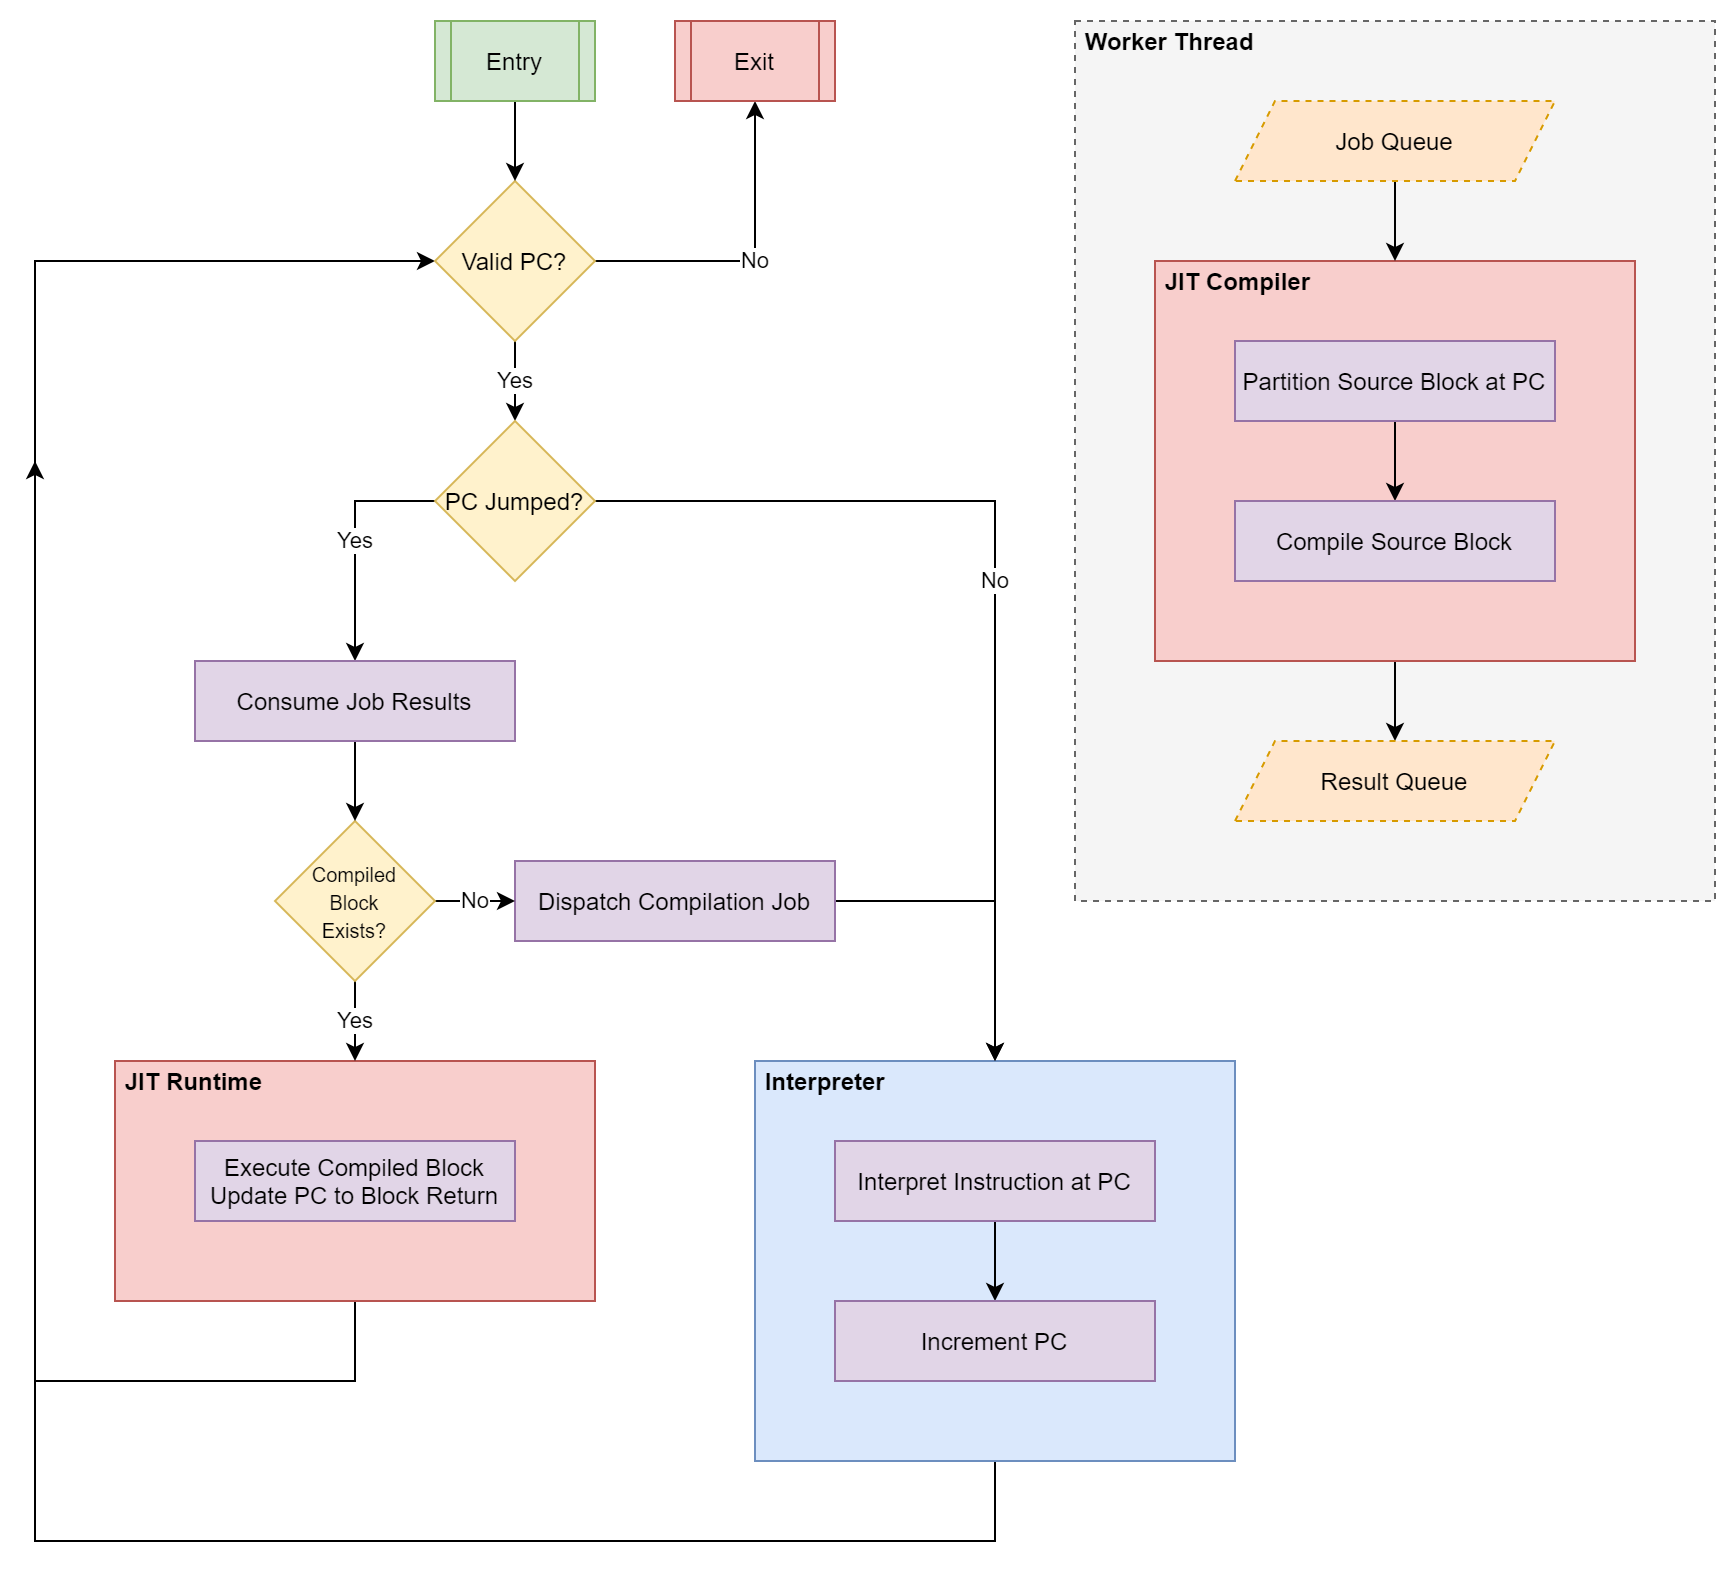
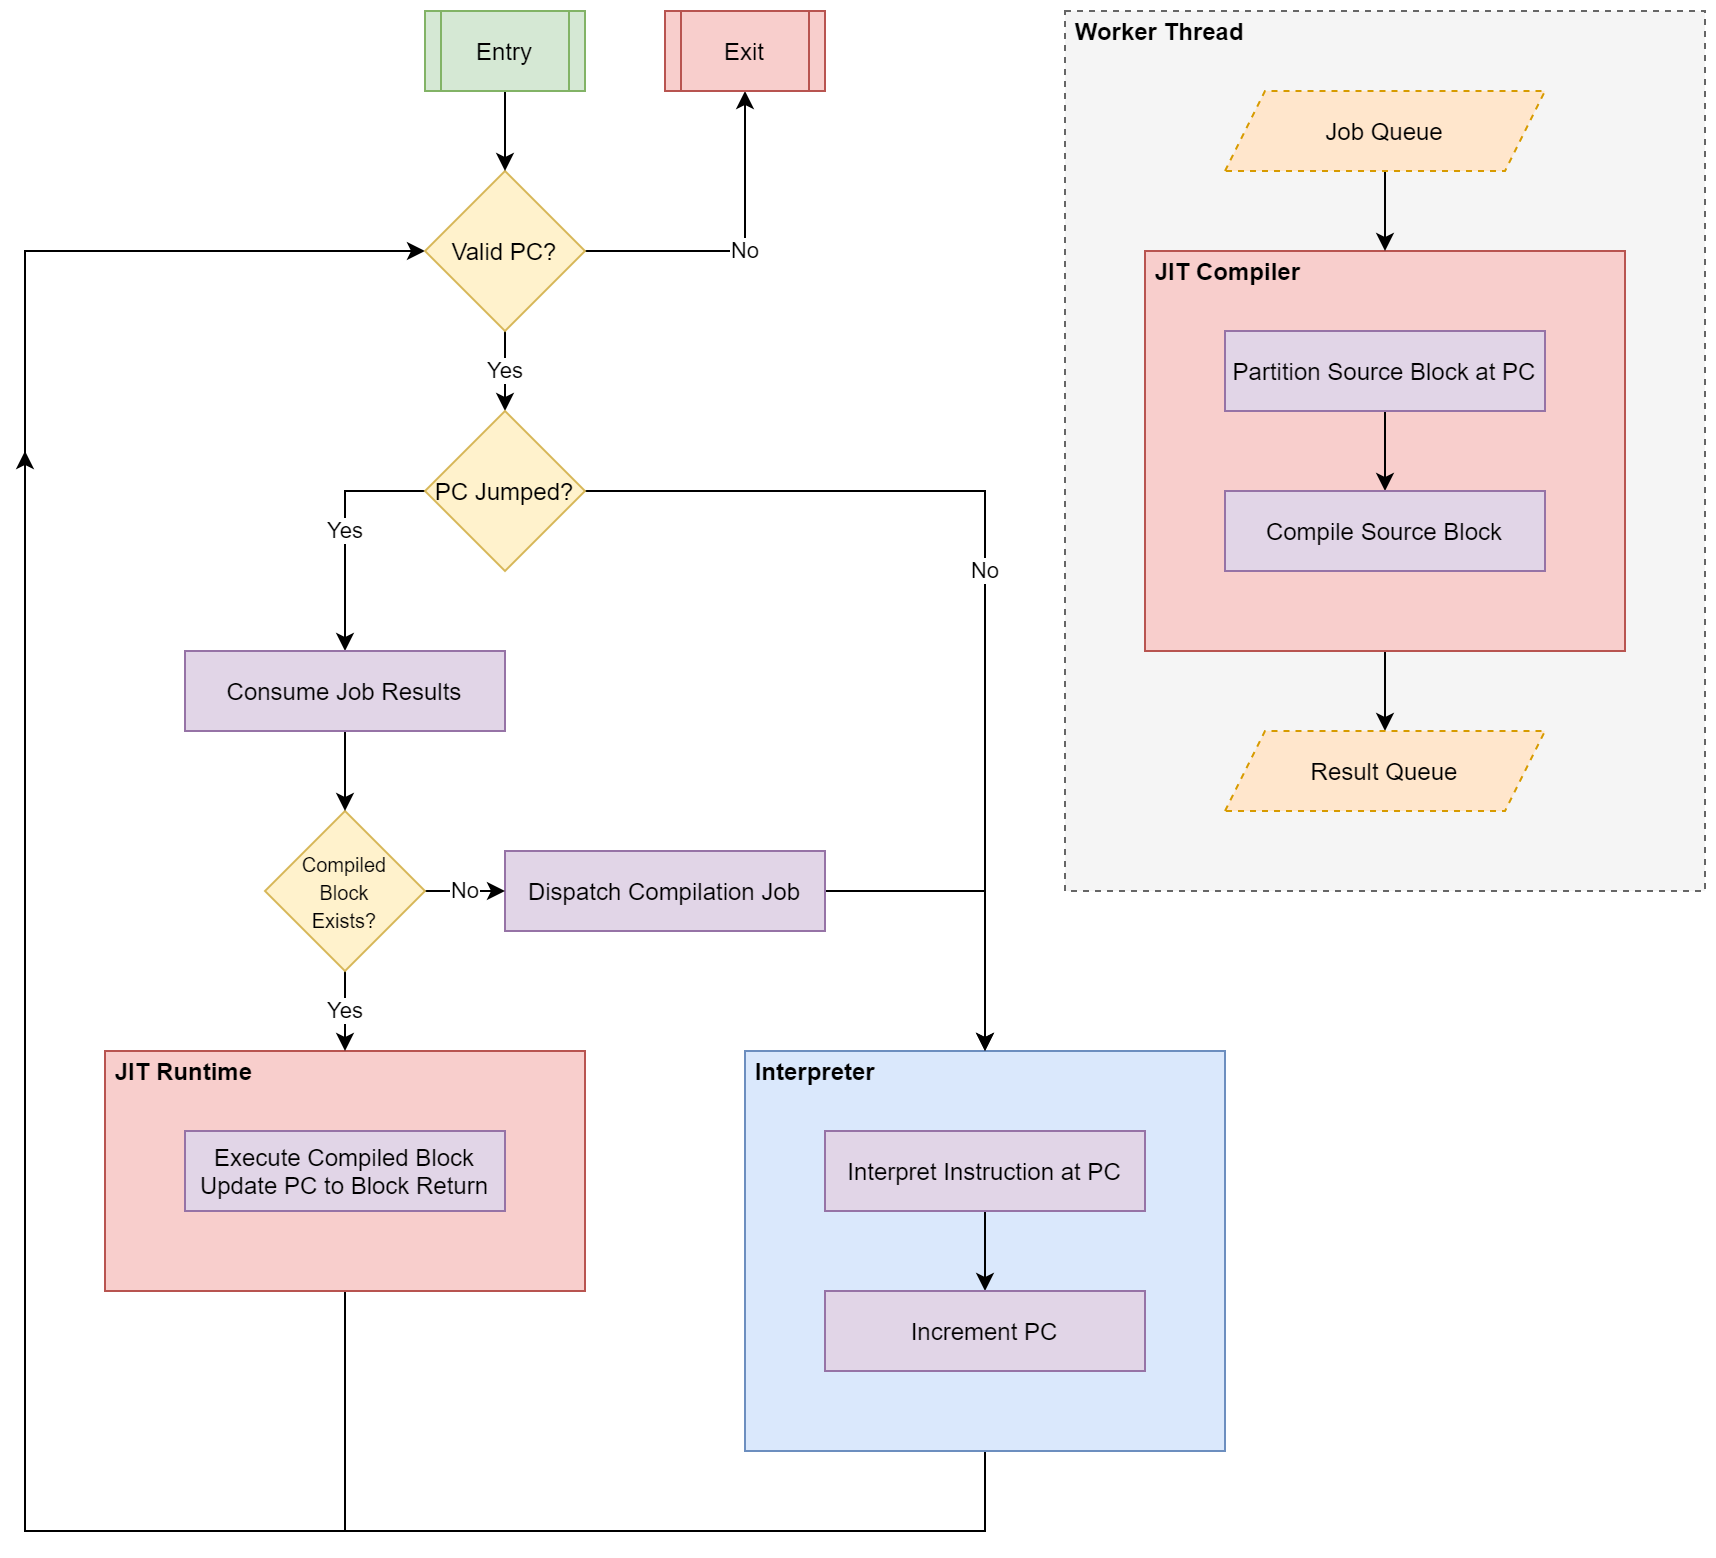
More report work

diff --git a/sections/requirements/specification.tex b/sections/requirements/specification.tex
@@ -1,6 +1,20 @@
 \subsection{Project Specification}
 
-The project will consist of building a JIT based emulator, an interpreter and a JIT-Interpreter hybrid. The interpreter will serve as performance baseline for evaluating the JIT system. The hybrid system intends to combine the best aspects of the JIT and the interpreter systems.
+The project will consist of developing the following emulators:
+
+\begin{itemize}
+    \item \textbf{Interpreter}
+    
+    The interpreter will emulate the source instructions by inspecting each instruction as required and directly executing the equivalent behaviour. Only a single thread will be used and no translation to the host architecture will be performed. This will largely serve as a performance baseline.
+    
+    \item \textbf{JIT Runtime}
+    
+    The JIT runtime will translate each source block from the foreign ISA to the host ISA which will then be executed to emulate the foreign program. Only a single thread will be used and no interpretation will be performed.
+    
+    \item \textbf{Hybrid Runtime}
+    
+    The hybrid runtime will utilise both the interpreter and JIT components in tandem with the aim to maximize the performance. At its discretion, it will utilise additional worker threads to JIT translate foreign source blocks to native host machine code blocks. The main thread will execute the translated blocks and will fall back to the interpreter if they are unavailable.
+\end{itemize}
 
 The following criterion have been defined for the emulators:
 

diff --git a/sections/implementation/hybrid.tex b/sections/implementation/hybrid.tex
@@ -1,0 +1,17 @@
+\subsection{Hybrid Architecture}
+
+\begin{figure}[h]
+    \centering
+    \includegraphics[width=1\linewidth]{diagrams/hybrid.png}
+    \caption{Top level architecture of the hybrid emulator.}
+    \label{figure:hybrid-arch}
+\end{figure}
+
+\subsubsection{Job System}
+
+\begin{figure}[h]
+    \centering
+    \includegraphics[width=1\linewidth]{diagrams/thread-pool.png}
+    \caption{The job system developed for offloading work from the main thread to many worker threads.}
+    \label{figure:job-system}
+\end{figure}

diff --git a/sections/implementation/interpreter.tex b/sections/implementation/interpreter.tex
@@ -1,0 +1,8 @@
+\subsection{Interpreter Architecture}
+
+\begin{figure}[h]
+    \centering
+    \includegraphics[width=0.5\linewidth]{diagrams/interpreter.png}
+    \caption{Top level architecture of the interpreter emulator.}
+    \label{figure:interpreter-arch}
+\end{figure}

diff --git a/sections/implementation/implementation.tex b/sections/implementation/implementation.tex
@@ -1,6 +1,8 @@
 \section{Implementation}
 
-\subfile{architecture}
+\subfile{interpreter}
+\subfile{jit}
+\subfile{hybrid}
 
 \subsection{Code Generation}
 \subfile{calling_conventions}
